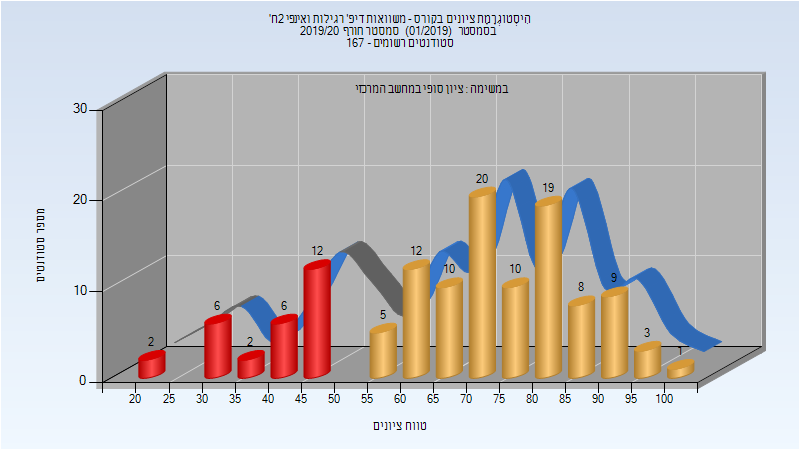
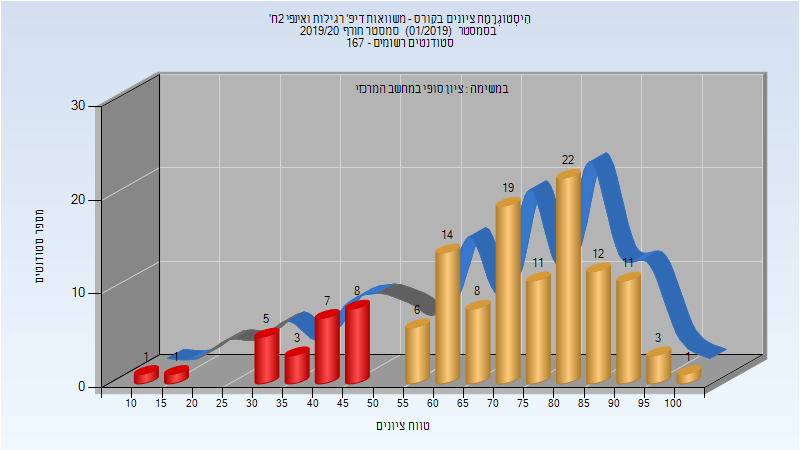
Deploy michael-maltsev/technion-histograms to github.com/michael-maltsev/technion-histograms.git:gh-pages

diff --git a/104035/index.html b/104035/index.html
@@ -1215,12 +1215,12 @@
 </thead>
 <tbody>
 <tr>
-<td>62</td>
-<td>49/13</td>
-<td>79</td>
-<td>30</td>
+<td>81</td>
+<td>61/20</td>
+<td>75</td>
+<td>8</td>
 <td>96</td>
-<td>70.629</td>
+<td>68.383</td>
 <td>75</td>
 </tr>
 </tbody>
@@ -1241,13 +1241,13 @@
 </thead>
 <tbody>
 <tr>
-<td>125</td>
-<td>97/28</td>
-<td>78</td>
-<td>20</td>
+<td>133</td>
+<td>108/25</td>
+<td>81</td>
+<td>13</td>
 <td>100</td>
-<td>67.968</td>
-<td>71</td>
+<td>69.492</td>
+<td>73</td>
 </tr>
 </tbody>
 </table>

diff --git a/104035/README.md b/104035/README.md
@@ -380,7 +380,7 @@
 
 | סטודנטים | עברו/נכשלו | אחוז עוברים | ציון מינימלי | ציון מקסימלי | ממוצע | חציון |
 | ---- | ---- | ---- | ---- | ---- | ---- | ---- |
-| 62 | 49/13 | 79 | 30 | 96 | 70.629 | 75 |
+| 81 | 61/20 | 75 | 8 | 96 | 68.383 | 75 |
 
 ### סופי
 
@@ -388,7 +388,7 @@
 
 | סטודנטים | עברו/נכשלו | אחוז עוברים | ציון מינימלי | ציון מקסימלי | ממוצע | חציון |
 | ---- | ---- | ---- | ---- | ---- | ---- | ---- |
-| 125 | 97/28 | 78 | 20 | 100 | 67.968 | 71 |
+| 133 | 108/25 | 81 | 13 | 100 | 69.492 | 73 |
 
 ## אביב 2020
 
